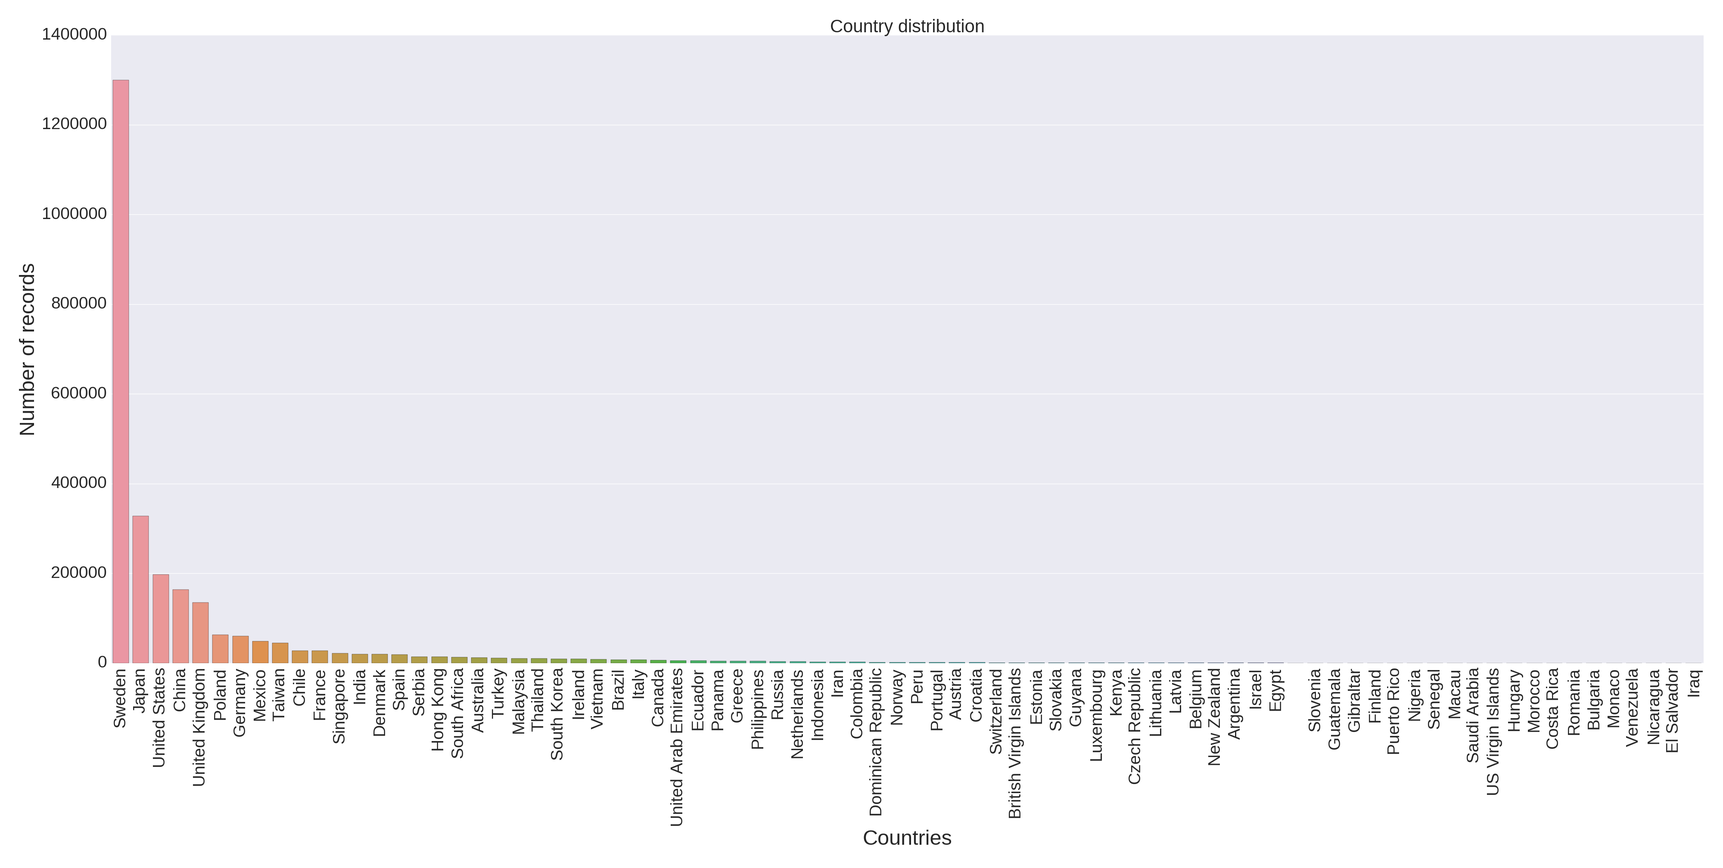
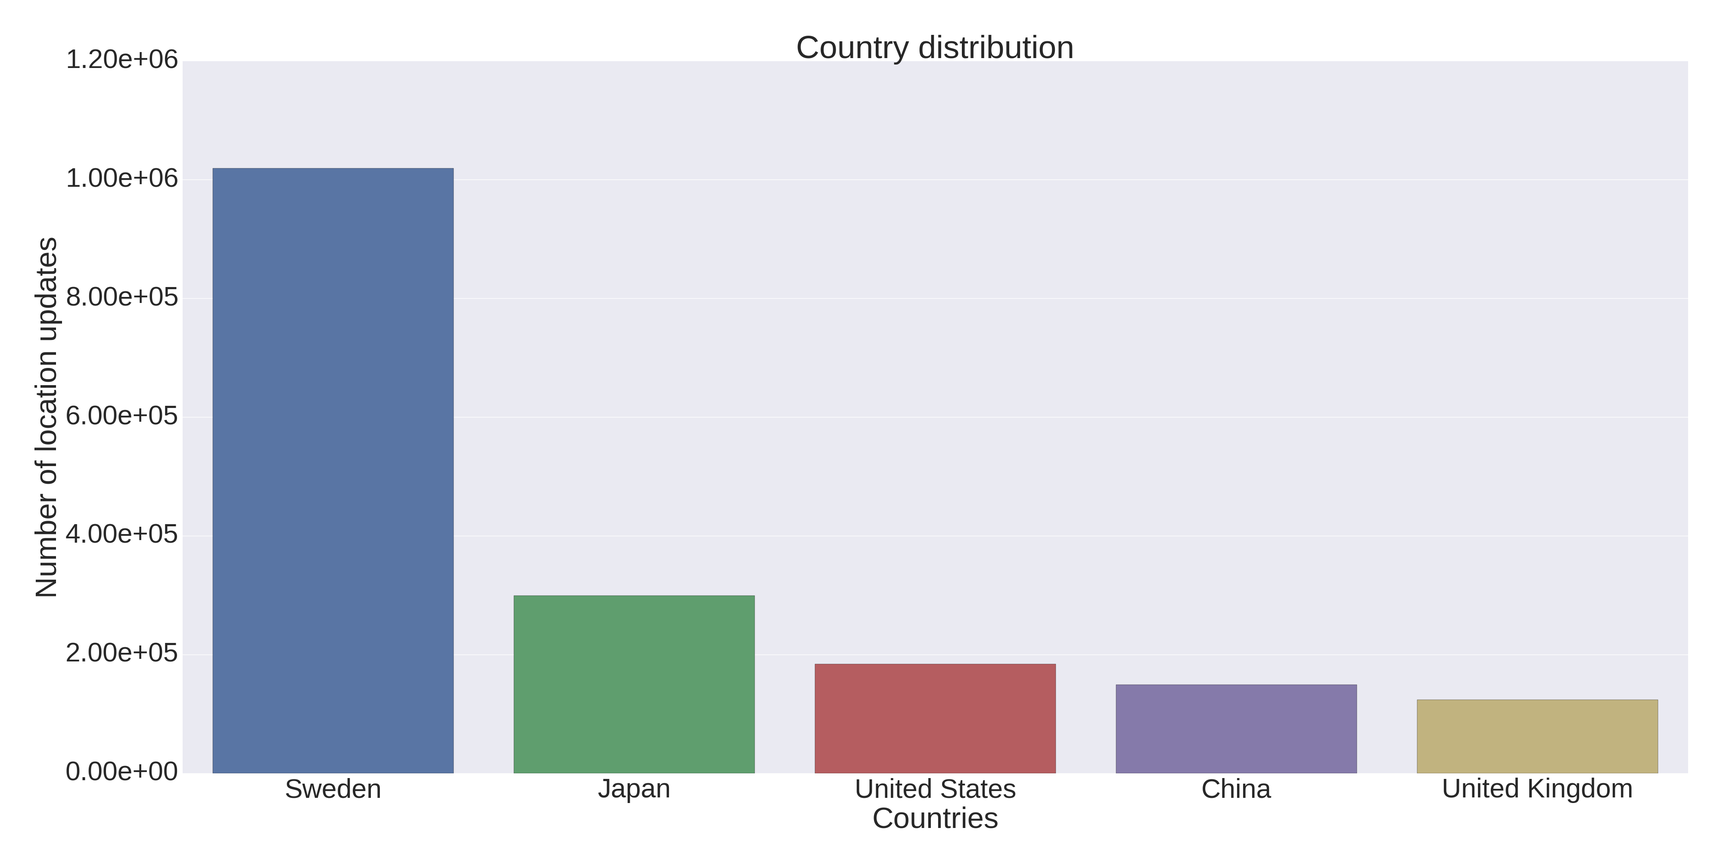
Dataset section updated, figures update, bigger fonts in script files

Changed region(s): [[0.0, 0.0312, 1.0, 0.9683], [0.4688, 0.0312, 0.625, 0.0625]]

diff --git a/report/dataset.tex b/report/dataset.tex
@@ -1,14 +1,15 @@
 %!TEX root = main.tex
 \chapter{Dataset}
-På de følgende sider vil vi gennnemgå vores dataset. Vi vil vise de basale statistikker over dataet for hver af de perioder vi har arbejdet med og gennemgå afvigelser. Vi vil også gennemgå hvordan vi forholder os til disse afvigelser og hvordan vi lavede datacleaning. \\
+På de følgende sider vil vi gennnemgå vores dataset. Vi vil vise de basale statistikker over det pågældende data vi har arbejdet med og gennemgå afvigelser. Vi vil også gennemgå hvordan vi forholder os til disse afvigelser og hvordan vi lavede datacleaning. \\
 Til sidst vil vi runde afsnittet af med en del-konlusion. 
 
-Vores data stammer fra Sony's Lifelog\cite{sonyLifeLog} som, navnet antyder, er en mobil Lifelog app som logger ens aktiviteter i løbet af dagen. Heri logger den bla. aktivitet i apps og geolokation. Vores dataset stammer fra denne app, indsamlet fra Sony medarbejdere og, som det fremkommer senere, henover forskellige perioder i 2015. % over 3 måneder\footnote{September 2015 - November 2015} fordelt på 80 lande. 
+Vores data stammer fra Sony's Lifelog\cite{sonyLifeLog} som, navnet antyder, er en mobil Lifelog app som logger ens aktiviteter i løbet af dagen. Heri logger den bla. aktivitet i apps og geolokation. Vores dataset stammer fra denne app, indsamlet fra Sony mobiltelefoner verden over. % over 3 måneder\footnote{September 2015 - November 2015} fordelt på 80 lande. 
 
-Vi har valgt at dele datasættet op i to dele, for overblikkets skylde: En \textbf{geolokation del} og en \textbf{app og homophily del}.
+%Vi har valgt at dele datasættet op i to dele, for overblikkets skylde: En \textbf{geolokation del} og en \textbf{app og homophily del}.
 
-\section{Geolokation del}
-Denne del af datasættet beskriver geolokationerne for hvor en bruger har været. Det beskriver præcis hvor, hvornår og hvor længe brugeren har været det pågældende sted. Hver gang brugeren skifter lokation (defineret ud fra latitude og longitude), bliver der logget en lokations opdatering med følgende oplysninger:
+%\section{Geolokation del}
+
+Datasættet beskriver geolokationerne for hvor en bruger har været. Det beskriver præcis hvor, hvornår og hvor længe brugeren har været det pågældende sted. Hver gang brugeren skifter lokation (defineret ud fra latitude og longitude), bliver der logget en lokationsopdatering med følgende oplysninger:
 \begin{enumerate}
 \item \texttt{\textbf{timestamp\_seen}}\\Millisekunder siden brugerens systems epoch, da den pågældende lokations opdatering bliver logget. 
 \item \texttt{\textbf{id}}\\Lokations id repræsenteret som en streng. 
@@ -32,25 +33,23 @@ Nogle af overstående oplysninger er ikke relevante for vores problemstilling. D
 \item \texttt{useruuid}
 \item \texttt{start\_time}
 \item \texttt{end\_time}
-\item \texttt{name}
-\item \texttt{area}
 \item \texttt{country}
-\item \texttt{region}
 \item \texttt{latitude}
 \item \texttt{longitude}
 \item \texttt{altitude}
-\item \texttt{accuracy}
 \end{itemize}
 
-Disse oplysinger har vi valgt, da de mere eller mindre er vigtige eller interssante i forhold til vores problemstilling. \texttt{useruuid} er vigtig for at kunne skelne brugerene fra hinanden, \texttt{start\_time} og \texttt{end\_time} er vigtige, da de fortæller hvornår/hvor længe brugeren har været i den pågældende lokation. \texttt{country} er til nemt at kunne filtrere brugerene, hvor \texttt{name}, \texttt{area} og \texttt{region}, ikke er særlige vigtige men kunne være interessant at kigge på. \texttt{latitude} og \texttt{longitude} er meget væsentlige, da de fortæller nok det mest vigtigste, nemlig hvilken lokation brugeren befinder sig. \texttt{accuracy} kan fortælle os i for høj grad vi kan bruge den pågældene lokations opdatering, mens \texttt{altitude} kunne være interessant at at kigge på mht. fin-filtrering. 
+Disse oplysinger har vi valgt, da de mere eller mindre er vigtige eller interssante i forhold til vores problemstilling. \texttt{useruuid} er vigtig for at kunne skelne brugerene fra hinanden, \texttt{start\_time} og \texttt{end\_time} er vigtige, da de fortæller hvornår og hvor længe brugeren har været i den pågældende lokation. \texttt{country} er til nemt at kunne filtrere brugerene. \texttt{latitude} og \texttt{longitude} er meget væsentlige, da de fortæller det mest vigtigste, nemlig hvilken lokation brugeren befinder sig i. \texttt{accuracy} kan fortælle os i for høj grad vi kan bruge den pågældene lokationsopdatering.  
 
-Vi har kigget på test data fra en periode og for specifikke brugere, fra production data. Herefter har vi kigget på alt data i production data, som Sony havde på daværende tidspunkt. Vi vil beskrive hvordan henholdsvis test data og production data ser ud mht. distributioner mm. 
+
+Vi har kigget på test data som er et sub-sæt af production data. Dette test data, er fra en specifik periode og med specifikke brugere. Efter dette sub-sæt, har vi kigget på hele production data. Vi vil beskrive hvordan henholdsvis test data og production data ser ud mht. distributioner mm. 
 
 \subsection{Test data}
-Dette data's periode strakte sig over 3 måneder: fra september - november 2015. 
+Dette data's periode strakte sig over 3 måneder: september - november 2015. 
 Henover denne periode blev der indsamlet 2,665,893 lokations opdateringer fordelt på 1,586 brugere. Disse brugere er alle Sony medarbejdere rundt om i verdenen. Dette betyder at de har nogle naturlige samlingssteder som er Sony relaterede, såsom Sonys kontorer rundt i diverse lande. \textcolor{red}{figur af kort eller henvisning?}
+Dette har i højgrad en indvirkning på vores hvordan dataet ser ud, hvilket vi vender tilbage til. 
 
-I Table \ref{tab:stat_geo_p1} ses statistic summary af \texttt{accuracy}, \texttt{altitude}, \texttt{name} og \texttt{country}.
+I Table \ref{tab:stat_geo_p1} ses statistic summary af \texttt{accuracy}.
 Vi kan se i tabellen, at der er nogle ugyldige værdier i både accuracy og altitude. De ugyldige værdier viser sig i form af negative værdier. Disse opstår sansynligvis, hvis softwaren ikke kan få værdierne fra GPS'en. I disse tilælde bliver værdierne sat til en standard værdi som er ugyldig, for at indikere fejlen. 
 
 Ud af de mange lokations opdateringer er der kun 20 hvor accuracy er negativ hvilket svarer til knapt en 1,000 del procent. Altitude har også nogle negative værdier. Her er negative værdier sådan set ikke ugyldige, men dog sjældne og unormale. Hvis vi kigger på antal lokations opdateringer der har en negativ altitude på mindre end -50,000 (-50m), er der 9. Ved mindre end -10,000 (-10m) er der 14.
@@ -59,32 +58,29 @@ Ud af de mange lokations opdateringer er der kun 20 hvor accuracy er negativ hvi
         \centering
         \small
         \setlength\tabcolsep{2pt}
-        \begin{tabular}{|c|c|c|c|c|}
+        \begin{tabular}{|c|c|c|}
             \hline
-                         & Accuracy           & Altitude     \\[-3pt]% compensate for extrarowheight
-                         &  (mm)              & (mm)              \\
+                         & Accuracy           \\[-3pt]% compensate for extrarowheight
+                         &  (mm)                   \\
             \hline
-                 Min     &  -2,147,483,500    & -5,086,000            \\
-                         &                    &                    \\
+                 Min     &  -2,147,483,500             \\
+                         &                          \\
             \hline
-                 Max     &  500,000           & 17,211,698        \\
-                         &                    &                      \\
+                 Max     &  500,000                \\
+                         &                            \\
             \hline
-                 Mean    & 35,249             & 105,030               \\
-                         &                    &                   \\
+                 Mean    & 35,249                      \\
+                         &                         \\
             \hline
-                 Std.    & 3,672,390          & 403,966            \\
-                 dev.    &                    &                   \\
+                 Std.    & 3,672,390                \\
+                 dev.    &                         \\
             \hline
         \end{tabular}
         \caption{Statistic summary of dataset in test periode} %add this between 'caption' and '{...' for new text in listing of tables: [New caption text only for listing of tables]
         \label{tab:stat_geo_p1}
 \end{table}
 
-
-
-Da vi ikke bruger altitude, vælger vi at se bort fra disse sjældne værdier og beholder de berørte opdateringer. Dog påvirker accuracy latitude og longitude, som er vores vigtigste attribut, så vi fjerner de opdateringer hvor acuracy er negativ. Herudover fjerner vi også de lokations opdateringer hvor accuracy er over 100.000 (100m) pga. vores binning (se mere i section \ref{ssec:binning}, s. \pageref{ssec:binning}), da disse alligevel har en sandsynlighed for at være udenfor vores binning. 
-%Dette gjorde vi kom ned på at have 2.274.333 lokations opdateringer i vores datasæt. 
+Da accuracy påvirker latitude og longitude, som er vores vigtigste attribut, så fjerner vi de opdateringer hvor acuracy er negativ. Herudover fjerner vi også de lokations opdateringer hvor accuracy er over 100.000 (100m) pga. vores binning (se mere i section \ref{ssec:binning}, s. \pageref{ssec:binning}), da disse alligevel har en sandsynlighed for at være udenfor vores binning. 
 
 Efter dette, så quantilerne af accuracy ud som man kan se på Tabel \ref{tab:acc_quantiles}. 
  \begin{table}[htbp]
@@ -116,31 +112,32 @@ Efter dette, så quantilerne af accuracy ud som man kan se på Tabel \ref{tab:ac
         \label{tab:acc_quantiles}
 \end{table}
 
-Vi kan se på medianen og mean, at de fleste brugere har lav værdi i accuracy - hvilket er godt! Hvis vi antager at det følger en normalfordeling, kan vi ud fra standard deviation udlede, at 95\% af brugerne har en accuracy mellem 6,603.53 og 47,185.182. Dette viser at der sandsynligvis er nogle få brugere med meget høje værdier i accuracy, hvor max er 100,000. At det kun er nogle få brugere med høje værdier er godt, da det omvendt betyder at der er mange bruger med lav (og derved god) accuracy. Da vi har gjort at max for accuracy er 100,000, kan vi sagtens bruge disse brugere med høj værdi i accuracy, men hvis man senere skulle bruge en mere fin binning, ville man sagtens kunne gøre dette.  
+Vi kan se på medianen og mean, at de fleste brugere har lav værdi i accuracy - hvilket er godt! Hvis vi antager at det følger en normalfordeling, kan vi ud fra standard deviation udlede, at 95\% af brugerne har en accuracy mellem 6,603.53 og 47,185.182. Dette viser at der sandsynligvis er nogle få brugere med meget høje værdier i accuracy, hvor max er 100,000. At det kun er nogle få brugere med høje værdier er godt, da det omvendt betyder at der er mange bruger med lav (og derved god) accuracy. Da vi har gjort at max for accuracy er 100,000, kan vi sagtens bruge disse brugere med høj værdi i accuracy. Hvis man senere skulle bruge en mere fin binning, ville man sagtens kunne gøre dette uden at skulle udelukke alt for meget data, da værdierne for accuracy ligger så fint som de gør.  
 
 Medianen og mean svarer til henholdsvis 23m og 26.89m og 95\% standard deviation er på mellem 6.6m og 47.19m hvilken er en fin accuracy. 
 
 
 Når vi kigger på hvilke lande der er repræsenteret og i hvilken grad, har vi at gøre med 80 unikke lande. Til at starte med lå dette tal på 74. Det viste sig, at der var en masse lokations opdateringer hvor landet ikke var blevet logget. I disse tilfælde var landet blot repræsenteret med en tom streng. Dette var tilfældet i så stor en del af dataet, at landet med en tom streng, var det andet mest repræsenterede land i dataet med lidt over 500.000 lokations opdateringer. 
-Da vi gerne vil kunne sorterer data på baggrund af land, var dette et problem. Dette var et problem som vi løste, ved at udføre omvendt geolokation. For næsten alle de 500.000 lokations opdateringer, var latitude og longitude til stede, så vi kunne ved hjælp af et API\cite{reversegeocode} slå landet op på bagrund af latitude og longitude, og herefter indsætte det i dataet. Dette gjorde vi kun skulle gøre dette én gang, i stedet for at slå landet op hver gang vi kørte vores scripts. Dette ville have været ineffektivt og spild af tid. Derudover havde API'et en grænse hvor hvor mange man kunne slå op i minuttet, hvilket gjorde at det tog en uges tid at slå alle op. Her kørte scriptet 24/7. \\ 
+Da vi gerne vil kunne sorterer data på baggrund af land, var dette et problem. Dette fik vi løst, ved at udføre omvendt geolokation. For næsten alle de 500.000 lokations opdateringer, var latitude og longitude til stede, så vi kunne ved hjælp af et API\cite{reversegeocode} slå landet op på bagrund af latitude og longitude, og herefter indsætte det i dataet. Dette gjorde vi kun skulle gøre dette én gang, i stedet for at slå landet op hver gang vi kørte vores scripts. Dette ville have været ineffektivt og spild af tid. Derudover havde API'et en grænse hvor hvor mange man kunne slå op i minuttet, hvilket gjorde at det tog en uges tid at slå alle op. Her kørte scriptet 24/7. \\ 
 Vores omvendt geolokation gjorde, at vi gik fra over 500,000 lokations opdateringer hvor landet ikke var til stede, til blot 130 lokations opdateringer. I samme omgang fik vi nye lande repræsenteret i dataet, så vi gik fra 74 lande til 80 (inkl. land med tom streng)
 
-Vi kan herefter kigge på, hvordan lokations opdateringerne er distribueret over hvert land. På figur \ref{fig:country_dist} kan vi se at landet med en tom streng, røg godt ned på listen, mens Sverige og Japan topper listen. 
+Vi kan herefter kigge på, hvordan lokations opdateringerne er distribueret over de fem lande, med højest antal opdateringer. På figur \ref{fig:country_dist} kan vi se at Sverige og Japan topper listen og ay landet med en tom streng er udenfor top 5 (det røg ned blandt den sidste fjerde del).
 
 
 \begin{figure}[H]
     \hspace*{-1.0cm}
     \centering
     \includegraphics[scale=0.14]{country_distribution}
-    \caption{Distribution for number of location updates between countries}
+    \caption{Distribution for number of location updates between the five countries with most updates}
     \label{fig:country_dist}
 \end{figure}
 
-At Sverige og Japan er de to størst repræsenterede lande er ikke så mærkeligt, da Sony er et Japansk firma og Sony overtog helt Sony-Ericsson, hvor Ericsson var Svensk. Sony-Ericsson var den gang Sony's mobil mærke. 
+
+At Sverige og Japan er de to størst repræsenterede lande er ikke så mærkeligt, da Sony er et Japansk firma og Sony overtog helt Sony-Ericsson, hvor Ericsson var Svensk. Sony-Ericsson var den gang Sony's mobil mærke, så en stor del af Sony's mobil udvikling ligger stadig i Sverige. Dette kan forsklare hvorfor Sverige har tre gange flere opdateringer end Japan.  
 
 På baggrund af Figure \ref{fig:country_dist}, har vi valgt at gå videre med endten Sverige eller Japan. Derfor vil vi nu sammeligne data for de to lande. 
 I Japan er der \numberUsersJapan{} unikke brugere, mens der i Sverige er \numberUsersSweden. De to lande kan have brugere tilfælles, da brugerne principielt kan rejse mellem flere lande og derved have lokations opdateringer i flere lande.  
-Antallet af totale lokations opdateringer varierer også. Over alle tre måneder har Japan 299,157 opdateringer, hvor Sverige har 1,018,781 opdateringer.
+Af antallet af totale lokations opdateringer har Japan 299,157 opdateringer henover alle tre måneder, mens Sverige har 1,018,781 opdateringer.
 
 Figure \ref{fig:mean_loc_updates_sep-nov} sammenligner gennemsnittet for lokations opdateringer i Japan og Sverige.
 \begin{figure}[H]
@@ -154,7 +151,20 @@ Figure \ref{fig:mean_loc_updates_sep-nov} sammenligner gennemsnittet for lokatio
 Vi kan se at Sverige har betydeligt flere opdateringer end Japan i alle tre måneder, hvor landet i September og Oktober endda har dobbelt så mange end Japan. Vi kan også se en nedadgående tendens i begge lande. September har højest antal opdateringer, hvor det herefter går nedad i de to resterende måneder, hvor November for Sverige ligger over 300 opdateringer under September. Selvom tendensen ses tydeligst for Sverige, er den også synlig for Japan. \\
 Dette kigger vi nærmere på senere. \textcolor{red}{heatmaps???}
 
+Som der blev nævnt tidligere, er der nogle naturlige samlingssteder for Sverige og Japan, da dataet er for Sony medarbejdere. Disse steder er naturligvis arbejdsrelaterede, såsom Sonys kontorer i de to lande. Vi har fundet frem til to steder i Sverige og et i Japan. Grunden til at dette er væsentligt for os er, at folk selvfølgelig har flere co-occurrences på et arbejdsrelateret sted, end et ikke arbejdsrelateret sted, da man er mange på et forholdvis lille område.\textcolor{red}{kilde?!?!} Derudover er der møder, pauser og andet som også gør at folk har en co-occurrence. Dette lyder meget godt, men det betyder langt fra at folk kender hinanden, fordi de har en co-occurence. Folk møder ofte kolegaer, uden de nødvendigvis kender hinanden. \textcolor{red}{Dette er noget vi beskriver nærmere i ....}
 
+Det er derfor interessant at se, hvor mange af opdateringer for hvert land der ligger indenfor de fundne samlingssteder og hvor mange der ligger udenfor. 
+
+\begin{figure}[H]
+    \hspace*{-2.2cm}
+    \centering
+    \includegraphics[scale=0.16]{stack_bar_loc_updates}
+    \caption{Shows how many of the updates thats outside/inside Sony perimeters}
+    \label{fig:hq_stack_bar}
+\end{figure}
+
+Figure \ref{fig:hq_stack_bar} viser hvordan opdateringerne fordeler sig mht. om de er forgået på et samlingssted eller ej. Vi ser at i begge landes tilfælde, er der en beskeden del der er indenfor samlingsstederne. For henholdsvis Japan og Sverige, svarer denne del til 23.89\% og 19.86\%. 
+Dette tegner godt for projektet, at der er så stor del af opateringerne der ligger udenfor samlingstederne. 
 
 Vi vil gerne se hvordan lokations opdateringerne for de to lande, er fordelt på brugerne. Til dette har vi quantilerne for de to lande, som se i Tabel \ref{tab:stat_loc_updates} 
 
@@ -273,9 +283,9 @@ Vi har valgt at visualisere dette, ved brug af Heatmaps.
 
 
  Figure \ref{fig:heatmap_jap} viser hvordan lokations opdateringerne per bruger (afrundet til heltal) i Japan er fordelt over hver dag i hver af de tre måneder. Figure \ref{fig:heatmap_swe} viser det samme, bare for Sverige. 
- Vi kan f.eks. se, at der i Japan er gennemsnitligt 17 opdateringer per bruger om mandagen i uge 3 i september, hvor der samme dag i Sverige er 35 opdateringer i gennemsnittet. 
+ Vi kan f.eks. se, at der i Japan er gennemsnitligt 18 opdateringer per bruger om fredagen i uge 2 i september, hvor der samme dag i Sverige er 29 opdateringer. 
 
- Da alle måneder har samme skala i det enkelte heatmap, er det nemt at sammenligne dagene på tværs af månederne. Vi kan derfor se, at for både Japan og Sverige gælder, at der generelt er mere aktivitet i september, end i da andre måneder. Dette underbygger tendensen fra Figure \ref{fig:mean_loc_updates_sep-nov}, hvor vi kunne se en nedadgående tendens fra september til november. 
+ Da alle måneder har samme skala i det enkelte heatmap, er det nemt at sammenligne dagene på tværs af månederne. Vi kan derfor se, at for både Japan og Sverige gælder, at der generelt er mere aktivitet i september, end i de andre måneder. Dette underbygger tendensen fra Figure \ref{fig:mean_loc_updates_sep-nov}, hvor vi kunne se en nedadgående tendens fra september til november. I Japan er october og november på nogenlunde samme niveau, hvor man i Sverige tyderligere kan se en ydeligere reducering af antal opdateringer. 
 
  
 \newpage

diff --git a/tools/scripts/records_analysis.py b/tools/scripts/records_analysis.py
@@ -439,9 +439,9 @@ def heat_map(data, mask, xticks, yticks, title="", xlabels=[], ylabels=[], anno=
         multiple {boolean} -- Indicates whether there are data for multiple heatmap (True) or not (False)
         max_val {int}     --  max value of the indicator. If it's 0 (default) max_val will be calculated from the data
     """
-    sns.set(font_scale=2.5)
+    sns.set(font_scale=4.5)
     if multiple:
-        sns.set(font_scale=2.5)
+        #sns.set(font_scale=2.5)
         months = ["September", "October", "November"]
         if max_val == 0:
             max_val = np.amax(data)
@@ -459,7 +459,7 @@ def heat_map(data, mask, xticks, yticks, title="", xlabels=[], ylabels=[], anno=
     else:
         if max_val == 0:
             max_val = np.amax(data)
-        sns.set(font_scale=3.5)
+        #sns.set(font_scale=5.5)
         if mask:
             ax = sns.heatmap(data, xticklabels=xticks,
                              annot=anno, fmt="d",
@@ -477,7 +477,7 @@ def heat_map(data, mask, xticks, yticks, title="", xlabels=[], ylabels=[], anno=
             for label in ax.yaxis.get_ticklabels()[::4]:
                 label.set_visible(True)
         ax.set_title(title)
-        [item.set_fontsize(33) for item in ax.get_xticklabels() + ax.get_yticklabels()]
+        #[item.set_fontsize(33) for item in ax.get_xticklabels() + ax.get_yticklabels()]
         if ylabels:
             ax.set_ylabel(ylabels)
         else:
@@ -787,8 +787,6 @@ def location_updates_at_hq_or_not():
     data, df, total_count, countries = fetch_data()
 
     test = {'Country': [], 'hq': []}
-    #test = pd.DataFrame([], columns=['country', 'hq'])
-    temp_i = 0
     for country in countries:
         print(country)
         for row in df.loc[(df['country'] == country), 'Location updates']:
@@ -810,6 +808,7 @@ def location_updates_at_hq_or_not():
         test3['Not at hq'].append(test2.loc[(test2['Country'] == country) &
                                             (test2['hq'] != 'At HQ')].shape[0])
     test4 = pd.DataFrame(test3)
+    print(test4)
     sns.set(font_scale=2.5)
 
     #
@@ -943,7 +942,9 @@ def aggregated_heatmap(sorter_efter_sum=False):
 
 
 if __name__ == '__main__':
-    aggregated_heatmap(True)
+    #aggregated_heatmap(True)
+    #show_all_month_for_contries()
+    location_updates_at_hq_or_not()
     #res = generate_time_list(parser.parse('2015-08-30 00:00:00+00:00'),
     #                         parser.parse('2015-08-31 00:00:00+00:00'), 60, True)
     #print(len(res))

diff --git a/tools/scripts/country_distribution.py b/tools/scripts/country_distribution.py
@@ -8,6 +8,9 @@ import seaborn as sns
 import DatabaseHelper
 import pprint
 from matplotlib import rcParams
+from tqdm import tqdm
+import matplotlib.pyplot as plt
+import matplotlib.ticker as tck
 
 
 
@@ -15,11 +18,13 @@ def get_data():
     country_dist = d.get_distributions_categories("country")
     countries = []
     data = []
-    for row in country_dist['results']:
+    filter_countries = ["Sweden", "Japan", "United States", "China", "United Kingdom"]
+    for row in tqdm(country_dist['results']):
         #countries.append(row['Countries'])
         #values.append(row['Count'])
-        data.extend([row['Countries']]*row['Count'])
-        countries.append(row['Countries'])
+        if row['Countries'] in filter_countries:
+            data.extend([row['Countries']]*row['Count'])
+            countries.append(row['Countries'])
     return data, countries
 
 
@@ -29,16 +34,18 @@ def bar_plot(data, labels):
     #fig, ax = sns.plt.subplots()
     # the size of A4 paper
     #fig.set_size_inches(11.7, 8.27)
-    ax = sns.countplot(x="test2", data=test, label='big')
-    sns.set(font_scale=2.5)
-    ax.set_xticklabels(labels, rotation=90)
-    ax.set_xlabel("Countries", fontsize=35)
-    ax.set_ylabel("Number of records", fontsize=35)
+    sns.set(font_scale=4.5)
+    ax = sns.countplot(x="test2", data=test)
+    #sns.set(font_scale=2.5)
+    ax.set_xticklabels(labels)
+    ax.set_xlabel("Countries") #fontsize=35
+    ax.set_ylabel("Number of location updates") #, fontsize=35
     #ax.set(ylabel="Count")
     ax.set(title="Country distribution")
-    sns.plt.tick_params(labelsize=28)
-    sns.plt.rcParams['axes.labelsize'] = 25
-    sns.plt.rcParams['legend.fontsize'] = 18
+    ax.yaxis.set_major_formatter(tck.FormatStrFormatter('%.2e'))
+    #sns.plt.tick_params(labelsize=28)
+    #sns.plt.rcParams['axes.labelsize'] = 25
+    #sns.plt.rcParams['legend.fontsize'] = 18
     #sns.plt.tight_layout()
     sns.plt.show()
     
